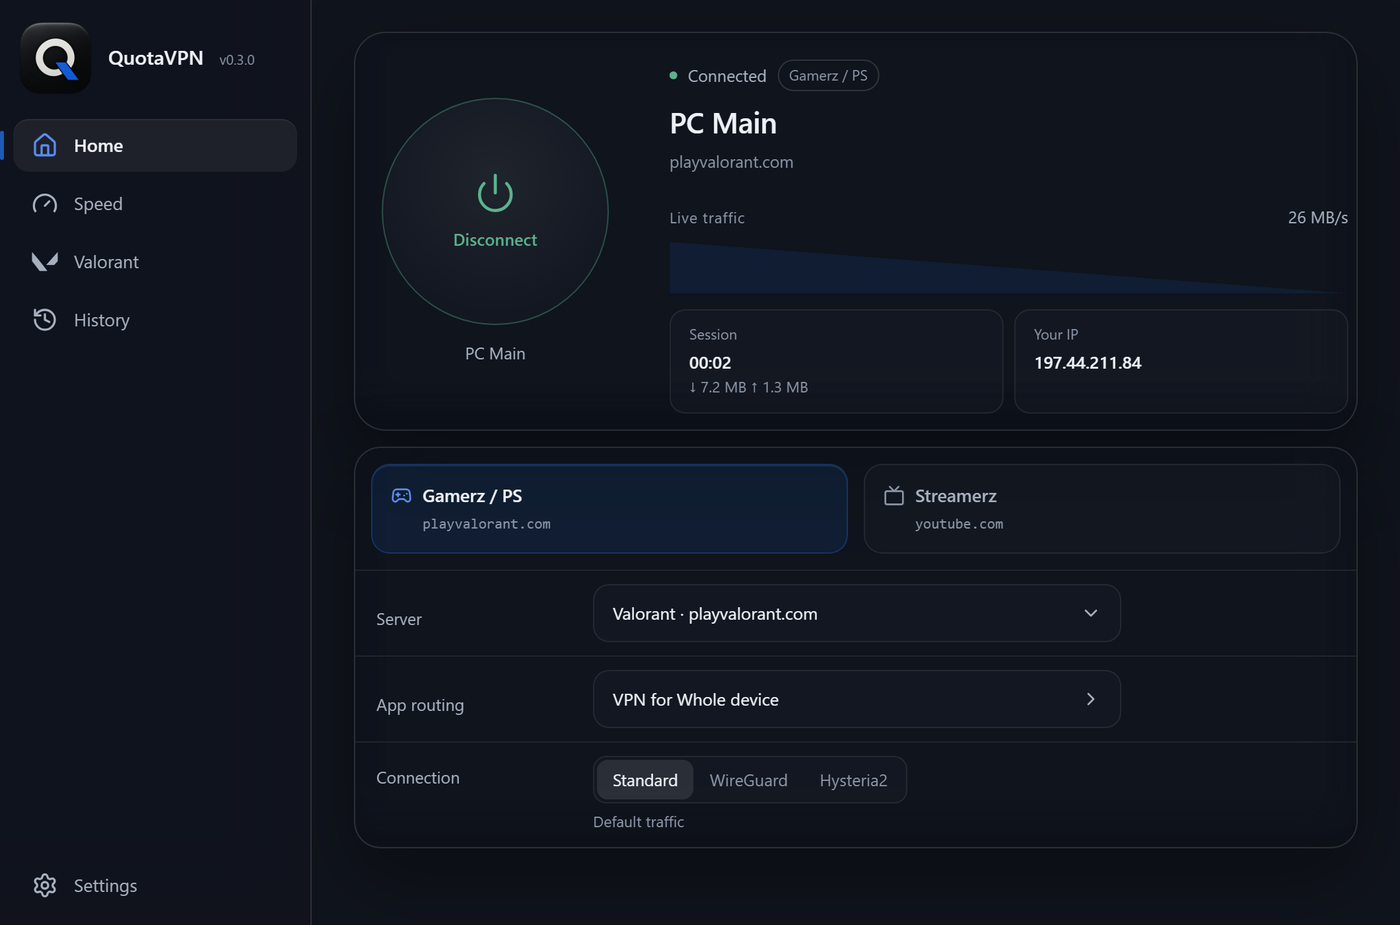
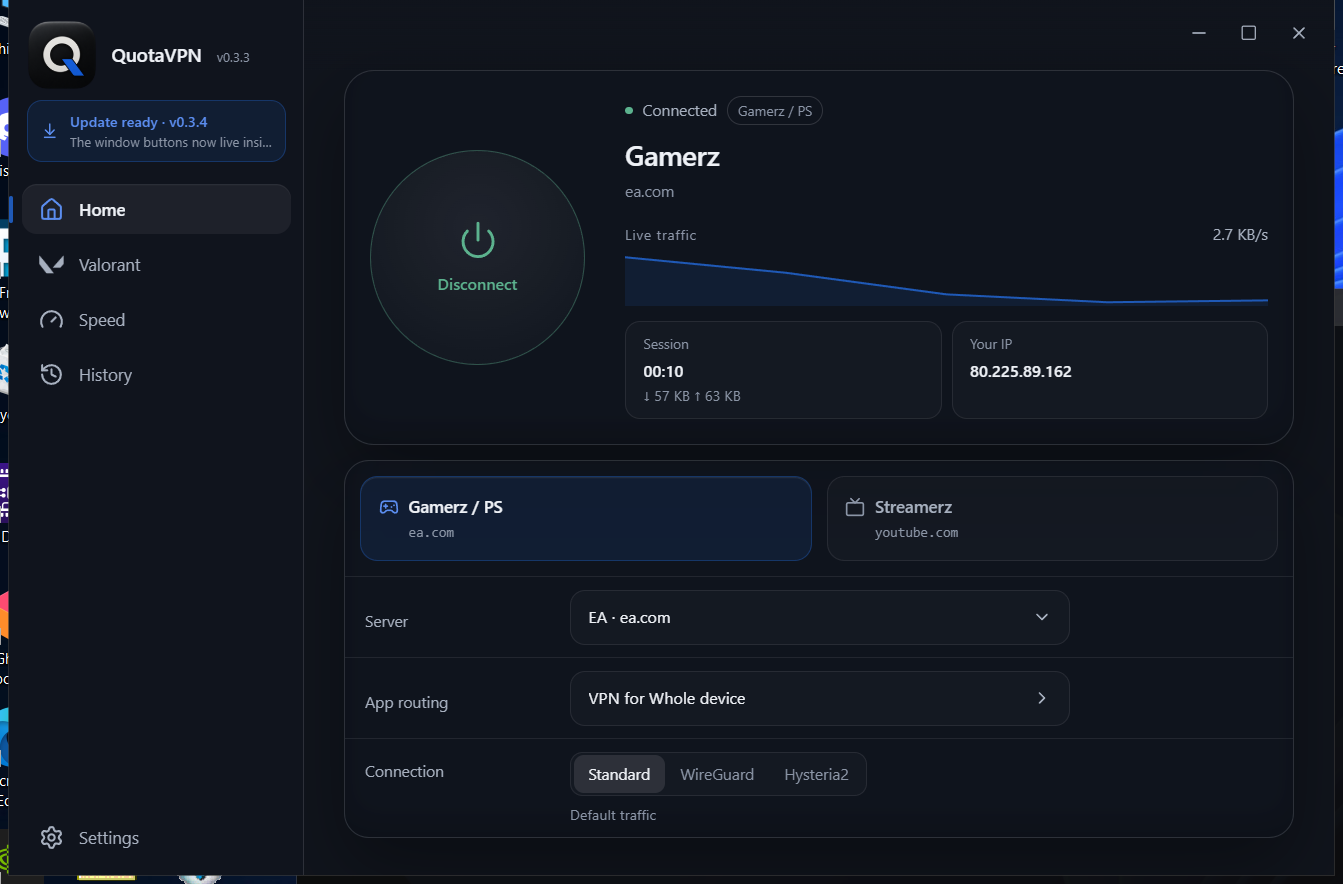
Site and README: current screenshots

diff --git a/docs/index.html b/docs/index.html
@@ -20,7 +20,7 @@
     --r:14px;
   }
   *{box-sizing:border-box}
-  html{-webkit-text-size-adjust:100%}
+  html{-webkit-text-size-adjust:100%; color-scheme:dark}
   body{
     margin:0; background:
       radial-gradient(1100px 520px at 18% -8%, rgba(74,134,232,.20), transparent 60%),
@@ -53,8 +53,8 @@
   .btn.primary:hover{background:#3f79db; text-decoration:none}
   .btn.ghost{border-color:var(--line); background:var(--card); color:var(--txt)}
   .btn.ghost:hover{background:rgba(255,255,255,.07); text-decoration:none}
-  .shot{border:1px solid var(--line); background:var(--card); border-radius:var(--r); padding:10px;
-    box-shadow:0 24px 60px rgba(0,0,0,.45)}
+  .shot{border:1px solid rgba(110,168,254,.22); background:var(--card); border-radius:var(--r); padding:10px;
+    box-shadow:0 24px 60px rgba(0,0,0,.5), 0 0 0 1px rgba(74,134,232,.06) inset}
   .shot img{width:100%; display:block; border-radius:9px}
   section{padding:44px 0}
   h2{font-size:25px; margin:0 0 18px; letter-spacing:-.2px}
@@ -104,8 +104,8 @@
         What a connection counts against is decided from the TLS handshake, so QuotaVPN makes your
         traffic ride the bucket you pick: your gaming package, your streaming package, or general quota.</p>
       <div class="btns">
-        <a class="btn primary" href="https://github.com/YousefMohiey/QuotaCards/releases/latest">Download for Windows</a>
-        <a class="btn ghost" href="https://github.com/YousefMohiey/QuotaCards/releases/latest">Android APK</a>
+        <a class="btn primary" href="https://github.com/YousefMohiey/QuotaCards/releases/latest"><svg width="16" height="16" viewBox="0 0 24 24" fill="currentColor" aria-hidden="true"><path d="M3 5.5 10.2 4.5v7.1H3V5.5Zm0 13 7.2 1v-7H3v6Zm8.4 1.2L21 21V12.6h-9.6v7.1ZM11.4 4.3 21 3v8.6h-9.6V4.3Z"/></svg>Download for Windows</a>
+        <a class="btn ghost" href="https://github.com/YousefMohiey/QuotaCards/releases/latest"><svg width="16" height="16" viewBox="0 0 24 24" fill="currentColor" aria-hidden="true"><path d="M7.6 9.2h8.8c.3 0 .5.2.5.5v6.5c0 .8-.6 1.4-1.4 1.4h-.4v2.2a1.1 1.1 0 0 1-2.2 0v-2.2h-2.1v2.2a1.1 1.1 0 0 1-2.2 0v-2.2h-.4c-.8 0-1.4-.6-1.4-1.4v-6.5c0-.3.2-.5.5-.5Zm-2.3.1c.6 0 1.1.5 1.1 1.1v4.2a1.1 1.1 0 0 1-2.2 0V10.4c0-.6.5-1.1 1.1-1.1Zm13.4 0c.6 0 1.1.5 1.1 1.1v4.2a1.1 1.1 0 0 1-2.2 0V10.4c0-.6.5-1.1 1.1-1.1ZM15.1 4.3l.9-1.6a.3.3 0 0 0-.5-.3l-.9 1.6a5.6 5.6 0 0 0-5.2 0L8.5 2.4a.3.3 0 0 0-.5.3l.9 1.6A4.6 4.6 0 0 0 6.5 8h11a4.6 4.6 0 0 0-2.4-3.7Z"/></svg>Android APK</a>
       </div>
       <div class="facts">
         <div class="fact"><b>2</b><span>apps: Windows and Android</span></div>
@@ -165,8 +165,8 @@
 
   <section>
     <div class="two">
-      <div class="shot"><img src="assets/app-servers.png" alt="QuotaVPN server picker for a profile"></div>
-      <div class="shot"><img src="assets/app-arabic.png" alt="QuotaVPN interface in Arabic"></div>
+      <div class="shot"><img src="assets/app-speed.png" alt="QuotaVPN speed test screen"></div>
+      <div class="shot"><img src="assets/app-valorant.png" alt="QuotaVPN Valorant profile screen"></div>
     </div>
   </section>
 

diff --git a/README.md b/README.md
@@ -10,7 +10,7 @@
 
 ## Screenshots
 
-![Windows app, connected](assets/app-home.png)
+![Windows app, connected](assets/app-home.png?v=2)
 
 One tap connects. The profile tiles pick the quota class, the Server row picks the address, and the session counters run while you are on.
 
